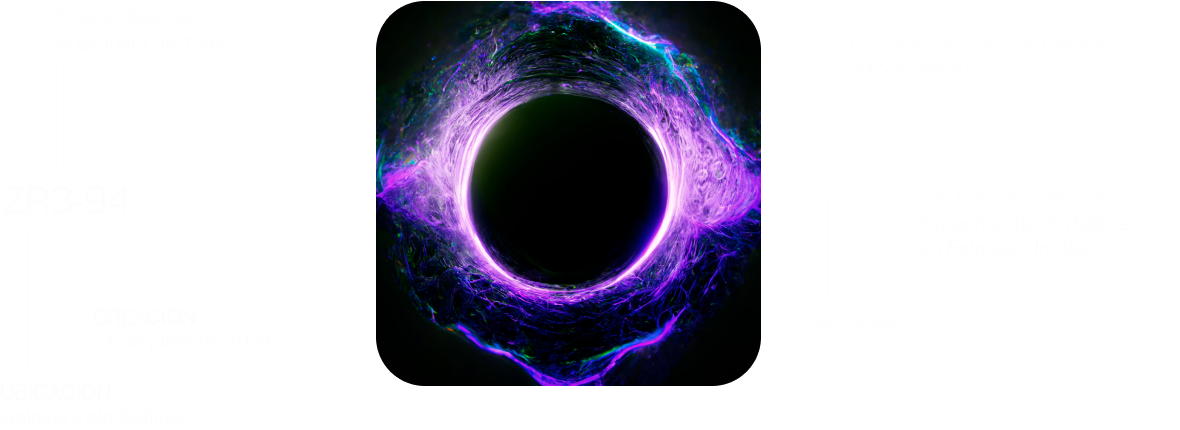
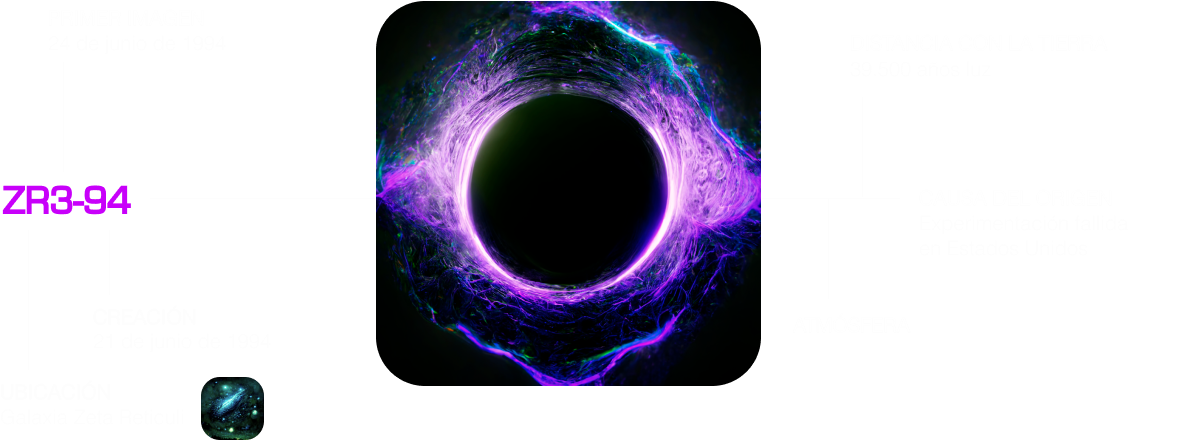
homepage changes

Changed region(s): [[0.3051, 0.0302, 0.6712, 0.907], [0.1525, 0.8465, 0.2441, 0.9977], [0.0, 0.393, 0.122, 0.4837]]

diff --git a/pages/home.tsx b/pages/home.tsx
@@ -1,6 +1,6 @@
-import { Box, Grid, Text, Image, Stack, createStyles } from '@mantine/core';
+import { Box, Grid, Text, Image, createStyles, Modal, Paper, HoverCard } from '@mantine/core';
 import { Carousel } from '@mantine/carousel';
-import { useEffect } from 'react';
+import { useEffect, useState } from 'react';
 import Layout from '../components/Layout/Layout';
 import { Person } from '../components/Person/Person';
 import { SectionTitle } from '../components/SectionTitle/SectionTitle';
@@ -27,6 +27,7 @@ const useStyles = createStyles((_theme, _params, getRef) => ({
 export default function HomePage() {
   const { classes } = useStyles();
   const setVisited = useNavStore((state) => state.setVisited);
+  const [opened, setOpened] = useState(false);
 
   useEffect(() => {
     setVisited('home');
@@ -35,101 +36,50 @@ export default function HomePage() {
 
   return (
     <>
+      <Modal
+        opened={opened}
+        onClose={() => setOpened(false)}
+        withCloseButton={false}
+        centered
+        padding={0}
+      >
+        <Paper shadow="xs" radius="lg" p="lg" style={{ background: '#E8E8E8' }}>
+          <Text size="sm" color="black">
+            El 21 de junio de 1994 se originó el agujero ZR3-94 y el elemento 115 fue fundamental
+            para que esto suceda, es la razón principal de una catástrofe científica ocurrida en
+            Estados Unidos. Bajo efectos de radiación y el intento de descomposición atómica del
+            elemento, una colisión de partículas generó una fusión con los diversos materiales de
+            prueba, produciendo un colapso de la materia a nivel cuántico sobre un nivel de espacio
+            infinitésimo, generando una fuente de masa gravitatoria posterior, una desestabilización
+            subatómica que afectaría a los allí presentes.
+          </Text>
+        </Paper>
+      </Modal>
       <Layout
         meta={{
-          title: 'ZR3-94',
+          title: '¿QUÉ ES EL ZR3-94?',
           description: 'Página principal de los investigadores de anomalías trascendentales',
         }}
       >
         <Box mt={100} mb={100}>
           <Box mb={100}>
-            <SectionTitle title="ZR3: AGUJERO NEGRO" />
+            <SectionTitle title="¿QUÉ ES EL ZR3-94?" />
           </Box>
-          <Image src="/assets/zr3_agujero_negro.png" ml={20} />
+          <div style={{ position: 'relative' }}>
+            <Image src="/assets/zr3_agujero_negro.png" ml={20} />
+            <div
+              style={{
+                width: "33%",
+                height: "90%",
+                position: 'absolute',
+                left: "32.5%",
+                bottom: "11%",
+              }}
+              onClick={() => setOpened(true)}
+            />
+          </div>
         </Box>
         <Box mt={100} mb={100}>
-          <Box mb={100}>
-            <SectionTitle title="EXPERIMENTACIÓN" />
-          </Box>
-          <Grid gutter={20}>
-            <Grid.Col span={4}>
-              <SectionTitle title="EXPERIMENTO BZ-1" fontSize={20} weight={400} />
-              <Box ml={20} style={{ maxWidth: '95%' }}>
-                <Text align="justify" size={20} mb="lg">
-                  Consistió en materializar la fuente de combustible de naves extraterrestres
-                  recuperadas y poder generar nuevos saberes en función de lo humano.
-                </Text>
-                <Stack align="center">
-                  <div style={{ maxWidth: 287, marginBottom: 20 }}>
-                    <Image src="/assets/zeta_reticuli_6.png" />
-                    <Text size={16} weight={400} mt="md" align="justify" px="md">
-                      Galaxia Zeta Reticuli
-                    </Text>
-                  </div>
-                  <div style={{ maxWidth: 287 }}>
-                    <Image src="/assets/hassan_navas1.png" />
-                    <Text size={16} weight={400} mt="md" align="justify" px="md">
-                      Hassan Navas (1948-1996), científico e investigador que llevó a cabo el
-                      experimento (junto a su equipo identificado por las siglas E-115).
-                    </Text>
-                  </div>
-                </Stack>
-              </Box>
-            </Grid.Col>
-            <Grid.Col span={4}>
-              <SectionTitle title="21 DE JUNIO DE 1994" fontSize={20} weight={400} />
-              <Box ml={20} mb={50} style={{ maxWidth: '95%' }}>
-                <Text align="justify" size={20} mb="lg">
-                  El 21 de junio de 1994 se originó el agujero ZR3-94 y el elemento 115 fue
-                  fundamental para que esto suceda, es la razón principal de una catástrofe
-                  científica ocurrida en Estados Unidos. Bajo efectos de radiación y el intento de
-                  descomposición atómica del elemento, una colisión de partículas generó una fusión
-                  con los diversos materiales de prueba, produciendo un colapso de la materia a
-                  nivel cuántico sobre un nivel de espacio infinitésimo, generando una fuente de
-                  masa gravitatoria posterior, una desestabilización subatómica que afectaría a los
-                  allí presentes.
-                </Text>
-              </Box>
-              <SectionTitle title="EXPERIMENTO FALLIDO" fontSize={20} weight={400} />
-              <Box ml={20} style={{ maxWidth: '95%' }}>
-                <Text align="justify" size={20} mb="lg">
-                  Esta experimentación trajo el nacimiento de un agujero negro extraordinario y, a
-                  su vez, el fallecimiento de varios de los ciéntificos que la llevaron a cabo. La
-                  falla producida fue analizada y se descubrió un rastro de radiación que provenía
-                  del área de pruebas y que se extendía (en grandes cantidades) en dirección
-                  contraria al suelo. Los análisis arrojaron que la extensión de radiación superaba
-                  las posibilidades terrestres, centrando su límite dentro de la galaxia Zeta
-                  Reticuli. Galaxia referente de la proveniencia de naves extraterrestres
-                  recuperadas en la tierra.
-                </Text>
-              </Box>
-            </Grid.Col>
-            <Grid.Col span={4}>
-              <SectionTitle title="ELEMENTO 115" fontSize={20} weight={400} />
-              <Box ml={20} style={{ maxWidth: '95%' }}>
-                <Text align="justify" size={20} mb="lg">
-                  El elemento 115 es la fuente de energía utilizada por las naves para viajar a una
-                  velocidad indefinida por el espacio tiempo.
-                </Text>
-                <Stack align="center">
-                  <div style={{ maxWidth: 287, marginBottom: 20 }}>
-                    <Image src="/assets/elemento_115_2.png" />
-                    <Text size={16} weight={400} mt="md" align="justify" px="md">
-                      Elemento 115
-                    </Text>
-                  </div>
-                  <div style={{ maxWidth: 287 }}>
-                    <Image src="/assets/distancia_zr394.png" />
-                    <Text size={16} weight={400} mt="md" align="justify" px="md">
-                      La luz viaja en línea recta y se refleja cuando colisiona con superficies
-                      reflectantes y al pasar de un medio a otro, cambia de velocidad y se desvía,
-                      se refracta
-                    </Text>
-                  </div>
-                </Stack>
-              </Box>
-            </Grid.Col>
-          </Grid>
           <Grid gutter={20}>
             <Grid.Col span={4}>
               <VideoPlayer
@@ -201,21 +151,37 @@ export default function HomePage() {
         </Box>
         <Box mt={100} mb={100}>
           <Box mb={100}>
-            <SectionTitle title="EQUIPO DE INVESTIGACIÓN E-115" fontSize={24} weight={500} />
+            <SectionTitle title="EXPERIMENTO BZ-1" fontSize={24} weight={500} align="center" />
+
+            <Box ml={20} style={{ maxWidth: '95%' }}>
+              <Text align="justify" size={20} mb="lg" ml={20}>
+                El experimento BZ-1 consistió en materializar la fuente de combustible de naves
+                extraterrestres recuperadas y poder generar nuevos saberes en función de lo humano.
+                Fué llevada a cabo por el científico e investigador Hassan Navas (1948-1996) y su
+                equipo identificado por las siglas E-115. <br />
+                Esta experimentación trajo el nacimiento del extraordinario agujero negro ZR3-94 y,
+                a su vez, el fallecimiento de varios de los ciéntificos involucrados La falla
+                producida fue analizada y se descubrió un rastro de radiación que provenía del área
+                de pruebas y que se extendía (en grandes cantidades) en dirección contraria al
+                suelo. Los análisis arrojaron que la extensión de radiación superaba las
+                posibilidades terrestres, centrando su límite dentro de la galaxia Zeta Reticuli.
+                Galaxia referente de la proveniencia de naves extraterrestres recuperadas en la
+                tierra.
+              </Text>
+            </Box>
           </Box>
           <div
             style={{
               display: 'flex',
               flexDirection: 'row',
               justifyContent: 'space-around',
-              /* alignItems: 'center', */
-              /* maxWidth: 1280, */
-              maxWidth: 820,
-              margin: '0 auto 4em auto',
+              maxWidth: 1025,
+              margin: '0 auto 3em auto',
+              border: '1px solid pink',
             }}
           >
             {Object.values(investigators)
-              .slice(0, 4)
+              .slice(0, 5)
               .map((i) => (
                 <Box key={i.name}>
                   <Person {...i} />
@@ -232,7 +198,7 @@ export default function HomePage() {
             }}
           >
             {Object.values(investigators)
-              .slice(4)
+              .slice(5)
               .map((i) => (
                 <Box key={i.name}>
                   <Person {...i} />

diff --git a/components/Person/Investigators.ts b/components/Person/Investigators.ts
@@ -2,6 +2,13 @@ import { PersonProps } from './Person';
 
 const BASE_PATH = '/assets/investigators';
 const investigators: { [key: string]: PersonProps } = {
+  hassan_navas: {
+    name: 'Hassan Navas',
+    year: '1956',
+    imgSrc: `${BASE_PATH}/hassan_navas.png`,
+    occupation: 'Científico e Investigador',
+    university: 'Universidad de Ciencia y Tecnología de Missouri - Missouri S&T',
+  },
   abel_borrego: {
     name: 'Abel Borrego',
     year: '1964',

diff --git a/components/Person/Person.styles.ts b/components/Person/Person.styles.ts
@@ -6,14 +6,14 @@ export default createStyles((theme) => ({
     padding: 0,
   },
   title: {
-    fontSize: 13,
+    fontSize: 10,
     color: theme.white,
     textAlign: 'center',
     textTransform: 'uppercase',
     fontWeight: 800,
   },
   subtitle: {
-    fontSize: 12,
+    fontSize: 11,
     color: theme.white,
     textAlign: 'center',
   },
